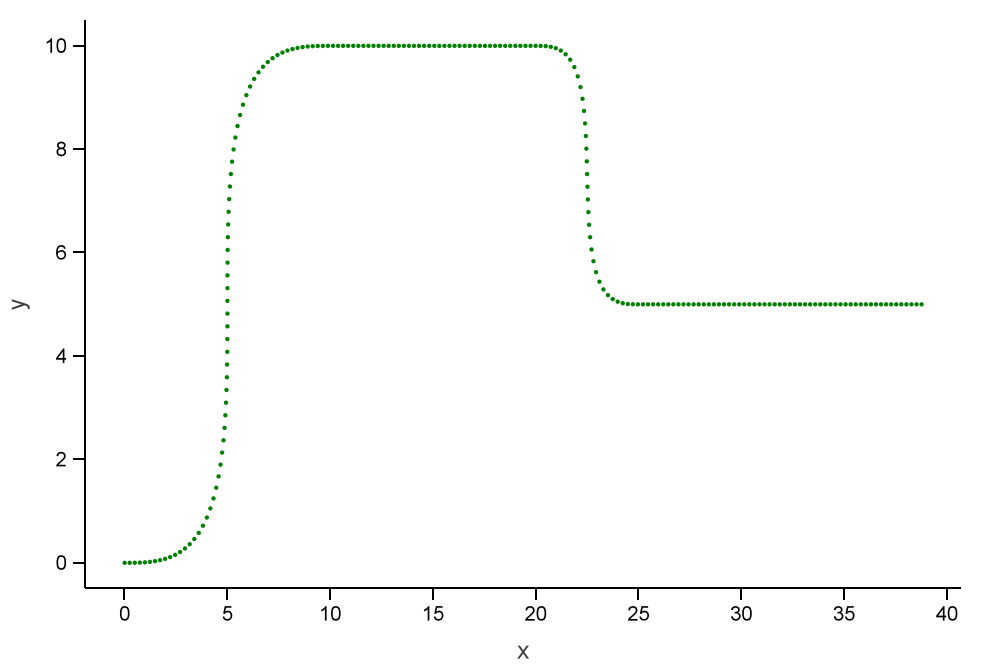
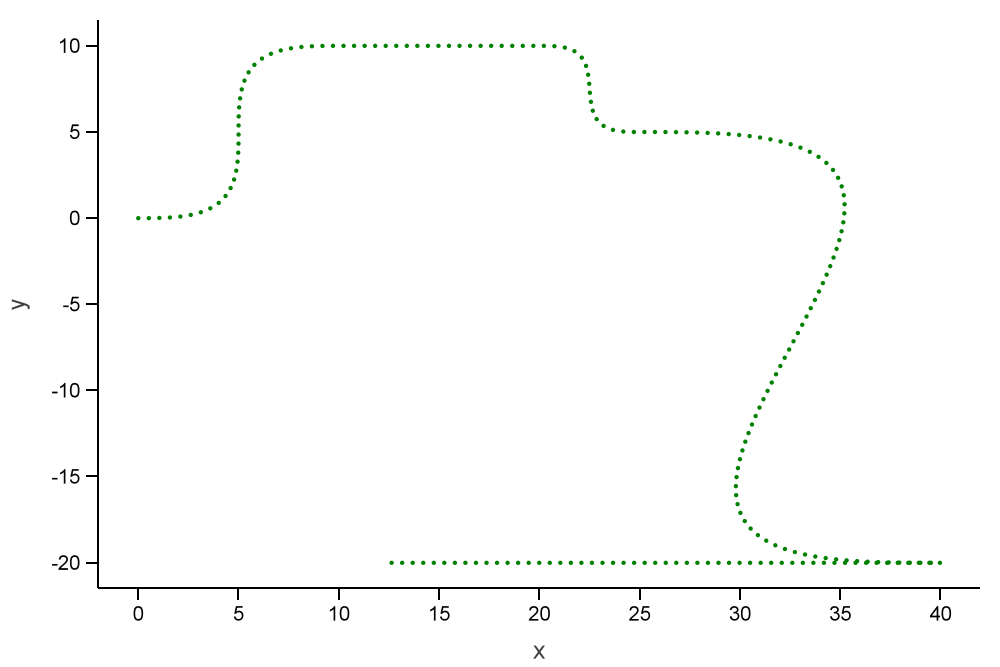
meow meow meow

diff --git a/koawalib/src/main/java/com/asiankoala/koawalib/path/PurePursuitController.kt b/koawalib/src/main/java/com/asiankoala/koawalib/path/PurePursuitController.kt
@@ -65,17 +65,13 @@ object PurePursuitController {
             turnPower = 0.0
         }
 
-        if(max(xPower, yPower) epsilonEquals xPower) {
-            if(max(xPower, turnPower) epsilonEquals xPower) {
-                xPower = 0.1 * xPower.sign
-            } else {
-                turnPower = 0.1 * turnPower.sign
-            }
-        } else if(max(yPower, turnPower) epsilonEquals yPower) {
-            yPower = 0.1 * yPower.sign
-        } else {
-            turnPower = 0.1 * turnPower.sign
-        }
+        val powers = mutableListOf(xPower, yPower, turnPower)
+        val maxIdx = powers.indices.maxByOrNull { powers[it].absoluteValue }!!
+        val highestPower = powers[maxIdx]
+        powers[maxIdx] = absMax(0.1 * highestPower.sign, highestPower)
+        xPower = powers[0]
+        yPower = powers[1]
+        turnPower = powers[2]
 
         xPower *= Range.clip(relativeXToPosition.absoluteValue / 2.5, 0.0, 1.0)
         yPower *= Range.clip(relativeYToPosition.absoluteValue / 2.5, 0.0, 1.0)
@@ -120,9 +116,7 @@ object PurePursuitController {
         var turnSpeed = (relativePointAngle / deccelAngle) * speed
         turnSpeed = clamp(turnSpeed, -speed, speed)
 
-        if(turnSpeed.absoluteValue < 0.1) {
-            turnSpeed = 0.1 * turnSpeed.sign
-        }
+        turnSpeed = absMax(0.1 * turnSpeed.sign, turnSpeed)
 
         turnSpeed *= clamp(relativePointAngle.absoluteValue / 3.0.radians, 0.0, 1.0)
 

diff --git a/koawalib/src/test/java/com/asiankoala/koawalib/MaxComponentTest.kt b/koawalib/src/test/java/com/asiankoala/koawalib/MaxComponentTest.kt
@@ -1,0 +1,24 @@
+package com.asiankoala.koawalib
+
+import com.asiankoala.koawalib.math.absMax
+import kotlin.math.absoluteValue
+import kotlin.math.sign
+
+object MaxComponentTest {
+    @JvmStatic
+    fun main(args: Array<String>) {
+        var xPower = 0.004
+        var yPower = 0.001
+        var turnPower = -0.05
+
+        val powers = mutableListOf(xPower, yPower, turnPower)
+        val maxIdx = powers.indices.maxByOrNull { powers[it].absoluteValue }!!
+        val highestPower = powers[maxIdx]
+        powers[maxIdx] = absMax(0.1 * highestPower.sign, highestPower)
+        xPower = powers[0]
+        yPower = powers[1]
+        turnPower = powers[2]
+
+        println("$xPower, $yPower, $turnPower")
+    }
+}

diff --git a/koawalib/src/test/java/com/asiankoala/koawalib/SplineInterpolationTest.kt b/koawalib/src/test/java/com/asiankoala/koawalib/SplineInterpolationTest.kt
@@ -2,6 +2,7 @@ package com.asiankoala.koawalib
 
 import com.asiankoala.koawalib.math.Point
 import com.asiankoala.koawalib.math.Pose
+import com.asiankoala.koawalib.math.radians
 import com.asiankoala.koawalib.path.gvf.GVFController
 import com.asiankoala.koawalib.path.gvf.SplinePath
 import com.qualcomm.robotcore.util.ElapsedTime
@@ -19,7 +20,8 @@ object SplineInterpolationTest {
             Pose(10.0, 10.0, 0.0),
             Pose(20.0, 10.0, 0.0),
             Pose(25.0, 5.0, 0.0),
-            Pose(40.0, 5.0, 0.0),
+            Pose(40.0, -20.0, 0.0.radians),
+            Pose(10.0, -20.0, 0.0.radians)
         ))
         println(path.length())
         val controller = GVFController(path, 3.0, 3.0)

diff --git a/koawalib/src/main/java/com/asiankoala/koawalib/math/MathUtil.kt b/koawalib/src/main/java/com/asiankoala/koawalib/math/MathUtil.kt
@@ -19,6 +19,10 @@ fun rotatePoint(p: Point, h: Double) = Point(
     h.sin * p.y - h.cos * p.x
 )
 
+fun absMax(a: Double, b: Double): Double {
+    return if(a.absoluteValue >= b.absoluteValue) a else b
+}
+
 fun clamp(x: Double, a: Double, b: Double): Double {
     if (x < a) {
         return a
